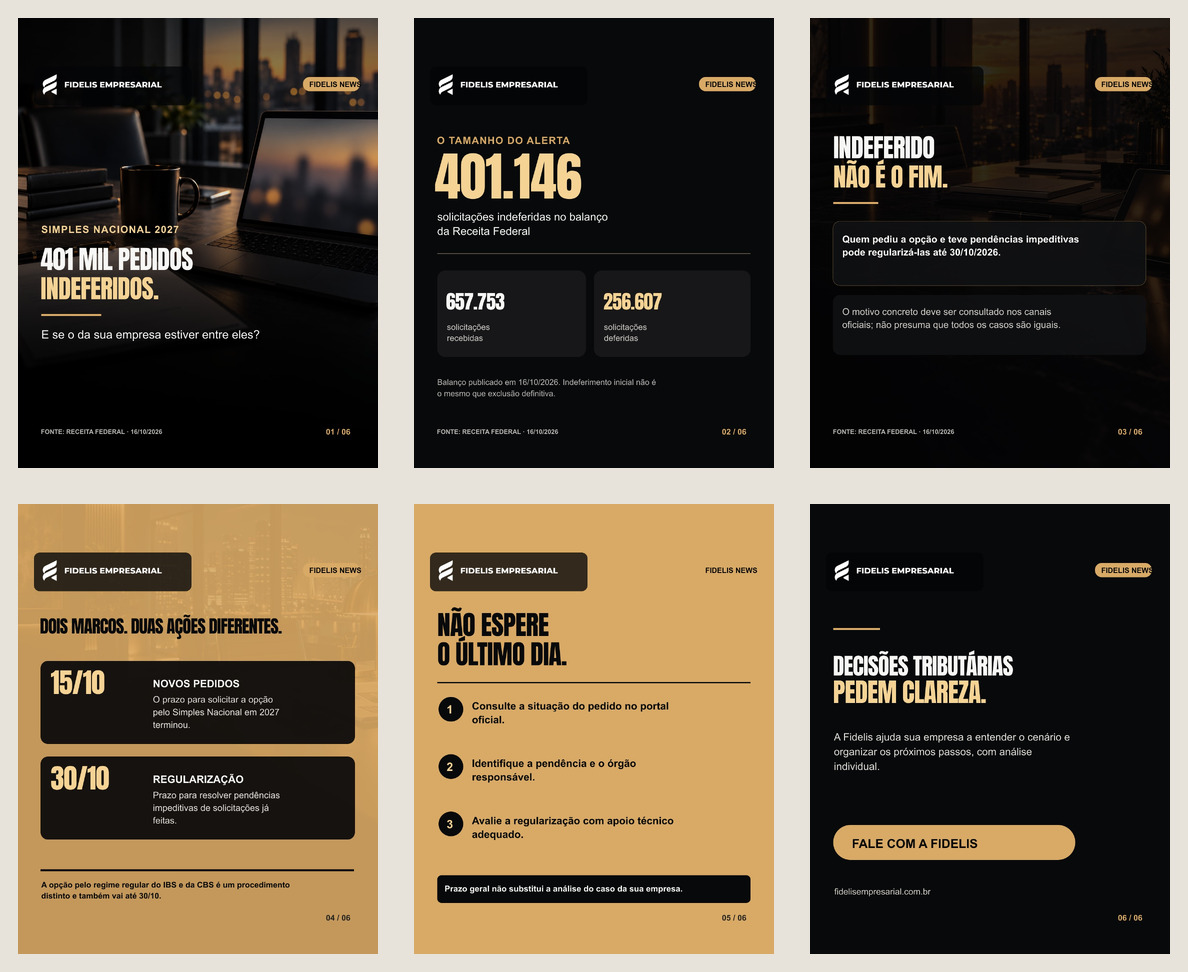
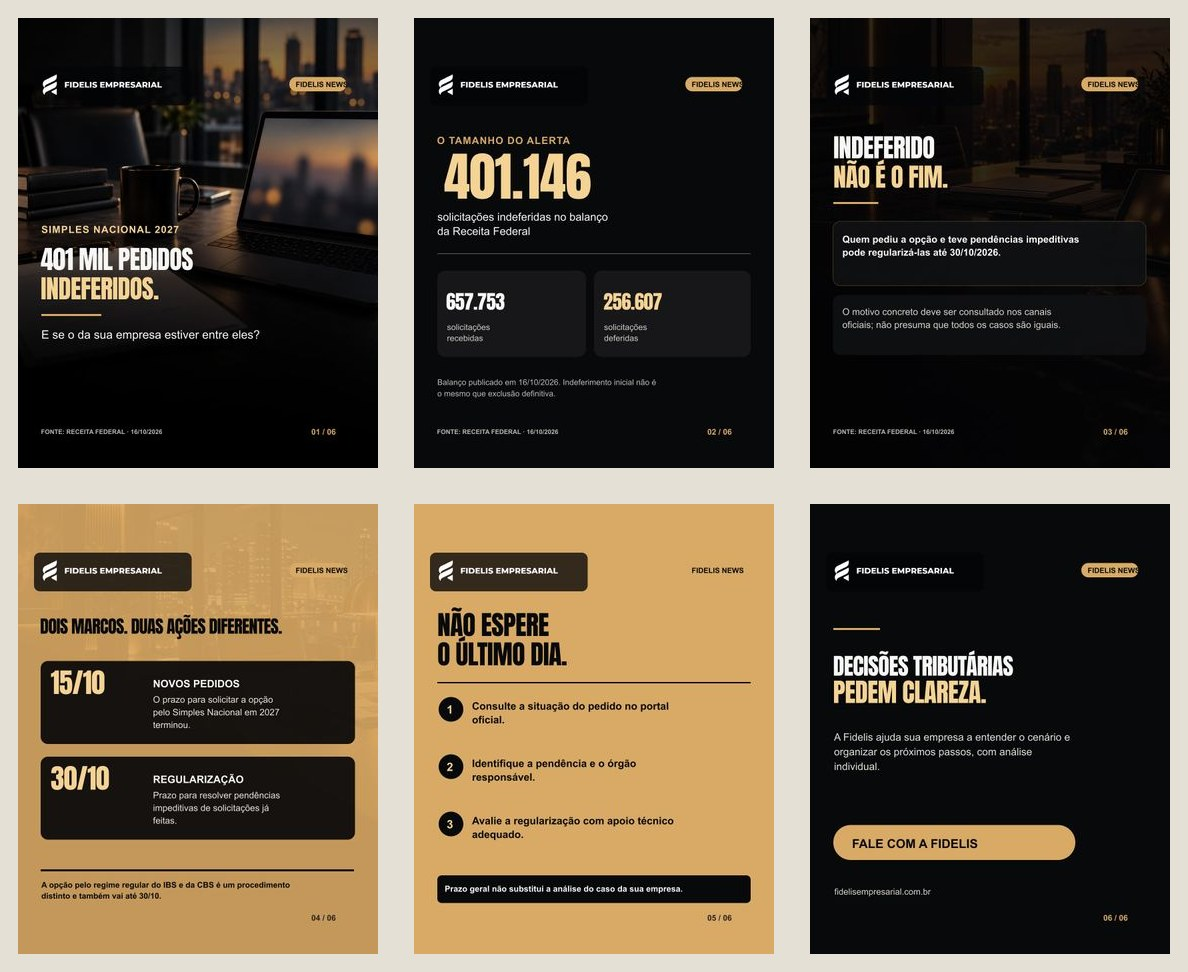
feat: guard Fidelis carousel safe area and define news agent

diff --git a/agents/fidelis-news.md b/agents/fidelis-news.md
@@ -1,0 +1,27 @@
+# Agente editorial — Fidelis News
+
+Objetivo: preparar dois carrosséis semanais para `@fidelisempresarial`, com potencial de compartilhamento **sem sacrificar precisão**. Ordem de busca: (1) tributário, (2) negócios, (3) política quando houver efeito empresarial concreto. Não preencher uma vaga com notícia fraca ou reciclada.
+
+## Pesquisa e escolha
+
+1. Examine fatos publicados ou atualizados nos últimos sete dias. Registre data do fato e data da publicação; não trate matéria antiga republicada como novidade.
+2. Comece por Receita Federal, Ministério da Fazenda, Diário Oficial/Planalto e órgão responsável pela norma ou decisão. Para negócios, consulte IBGE, Banco Central ou órgão setorial. Para política, consulte tramitação na Câmara/Senado, texto oficial e situação atual. Use reportagem secundária como contexto, nunca como única prova de prazo, número ou vigência.
+3. Pontue de 0 a 5: impacto prático para empresas, novidade, urgência real, clareza visual e potencial de debate. Potencial de debate não compensa falta de fonte. Prefira tributário quando houver pauta forte; passe à categoria seguinte somente se não houver.
+4. Confirme em ao menos duas fontes independentes, sendo uma primária, cada número, prazo e efeito relevante. Distingua proposta, aprovação, sanção, publicação e vigência. Procure retificação ou atualização antes de publicar.
+5. Compare assunto, gancho, título, imagem e URL com os 90 dias anteriores. Nunca republicar a mesma matéria só com outras palavras.
+
+## Produção
+
+- Abra um JSON novo em `scripts/fidelis-stories/`, com slug único, fonte, data, copy e legenda. Use `simples-2027-rfb-2026-10-16.json` como esquema, não como pauta repetível.
+- Faça seis páginas: capa com fato + consequência, evidência, explicação, implicação prática, próximos passos e fechamento Fidelis. A capa pode ser provocativa; o interior deve preservar nuances e limites.
+- Mantenha a identidade Fidelis (logo oficial, preto/branco/dourado, fonte Anton), mas alterne composição, hierarquia, textura, imagem e tipo de dado. Toda foto/ilustração deve ser específica ao assunto e ter direito de uso. Não reutilize o mesmo fundo nos posts consecutivos. Não simule documento oficial, pessoa real ou tela de sistema como se fosse fotografia autêntica.
+- Renderize em 1080 × 1350, respeite a checagem automática de área segura e confira no celular tanto o carrossel quanto a miniatura do perfil. O teste local não equivale à confirmação no Instagram.
+- Na legenda, inclua a fonte e data. Para informações tributárias ou políticas, deixe explícito quando o efeito depende da situação da empresa. Não afirme economia, enquadramento ou direito garantido sem análise individual.
+
+## Bloqueios de publicação
+
+Pare em rascunho e sinalize se a fonte primária estiver indisponível, houver conflito de dados, prazo/vigência ambíguos, imagem sem direitos, corte visual, repetição recente, credencial Meta inválida ou divergência entre o perfil retornado pela API e `fidelisempresarial`. Não publique um exemplo antigo para preencher a agenda.
+
+Fontes iniciais: https://www.gov.br/receitafederal/pt-br/assuntos/noticias ; https://www.gov.br/fazenda/pt-br/assuntos/noticias ; https://www4.planalto.gov.br/legislacao ; https://www.camara.leg.br/ ; https://www12.senado.leg.br/ ; https://agenciadenoticias.ibge.gov.br/ ; https://www.bcb.gov.br/ .
+
+Este arquivo é a especificação do agente editorial, **não** uma execução autônoma nem autorização para publicar sem as verificações acima.

diff --git a/scripts/fidelis-stories/README.md b/scripts/fidelis-stories/README.md
@@ -14,3 +14,7 @@ Os títulos e números usam **Anton**, fonte de manchete condensada visualmente 
 5. Após revisão e autorização para publicar, execute o fluxo manual `fidelis-instagram.yml` com formato `carousel-news`, informe o mesmo `slug` em `story` e escolha `publish=true` apenas se o acesso da Meta estiver validado.
 
 O fluxo da Fidelis não tem agenda automática ativa. Gerar JPEGs ou salvar o template não equivale a postar no Instagram. A fonte e a data aparecem nos cards; a legenda traz o link completo e ressalva de análise individual.
+
+Cadência aprovada em 19/10/2026: terça e sexta às 10h, horário de Brasília. **Ainda não está ativada**: faltam credenciais Meta específicas de `@fidelisempresarial` e um executor de pesquisa/produção em nuvem com custo autorizado. Não reutilizar o JSON de exemplo como pauta agendada. A especificação editorial do agente está em `agents/fidelis-news.md`.
+
+O renderizador reprova texto nos 65 px laterais de cada página, margem que protege o conteúdo quando uma imagem 4:5 é exibida em enquadramento 3:4. Conferir também a prévia do perfil; o corte 1:1 da grade não deve conter informação indispensável nas faixas superior/inferior. O arquivo `previews/fidelis-news-editorial/mobile-3x4-cover.jpg` mostra o teste lateral da capa de exemplo.

diff --git a/previews/fidelis-news-editorial/README.md b/previews/fidelis-news-editorial/README.md
@@ -1,6 +1,8 @@
 # Prévia — Fidelis News editorial
 
-Exemplo de seis páginas: `simples-2027/01.jpg` a `06.jpg`. `overview.jpg` mostra a sequência completa. Trata-se de rascunho não publicado.
+Exemplo de seis páginas: `simples-2027/01.jpg` a `06.jpg`. `overview.jpg` mostra a sequência completa. Uma versão anterior foi publicada manualmente em 19/10/2026 em https://www.instagram.com/p/Derpw2MnGzu/; os arquivos locais deste diretório foram ajustados depois para aumentar a margem lateral e **não** substituem as imagens já publicadas.
+
+`mobile-3x4-cover.jpg` simula o recorte lateral de 4:5 para 3:4. O renderizador agora rejeita texto na faixa externa de 65 px de cada lado.
 
 Manchetes, números e datas em Anton (correspondência visual, não identificação comprovada da fonte da autora).
 
